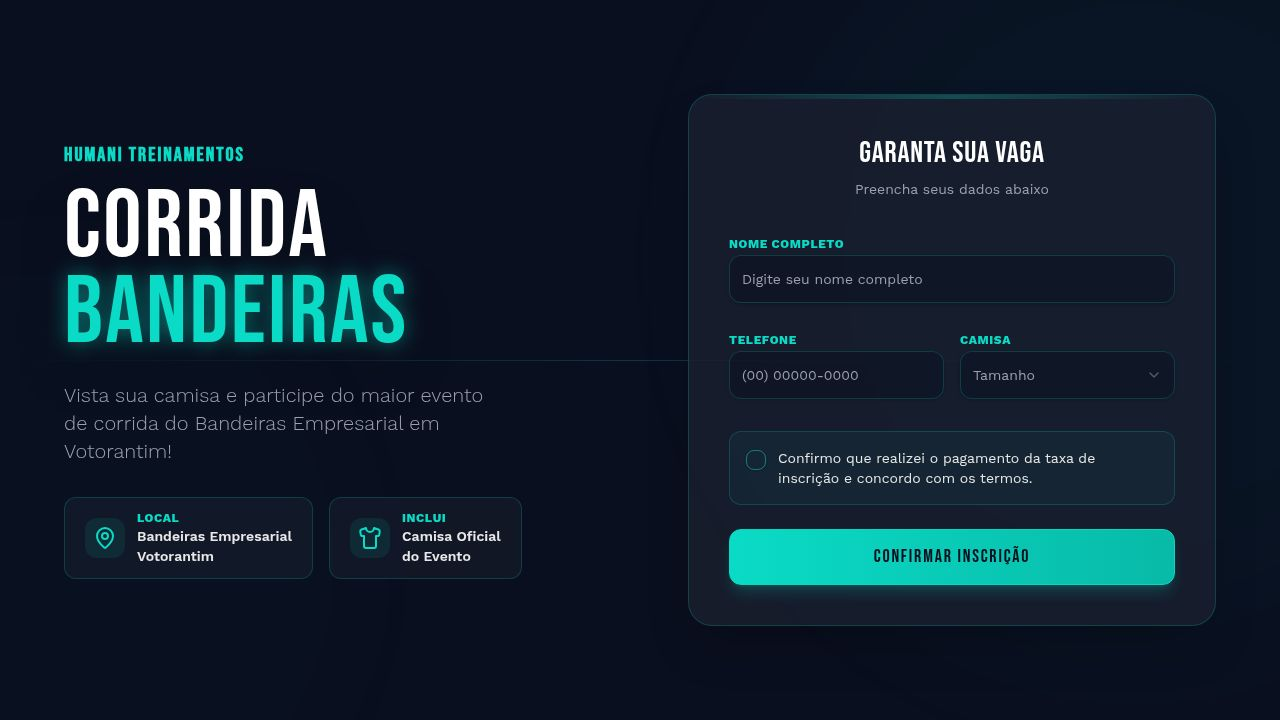
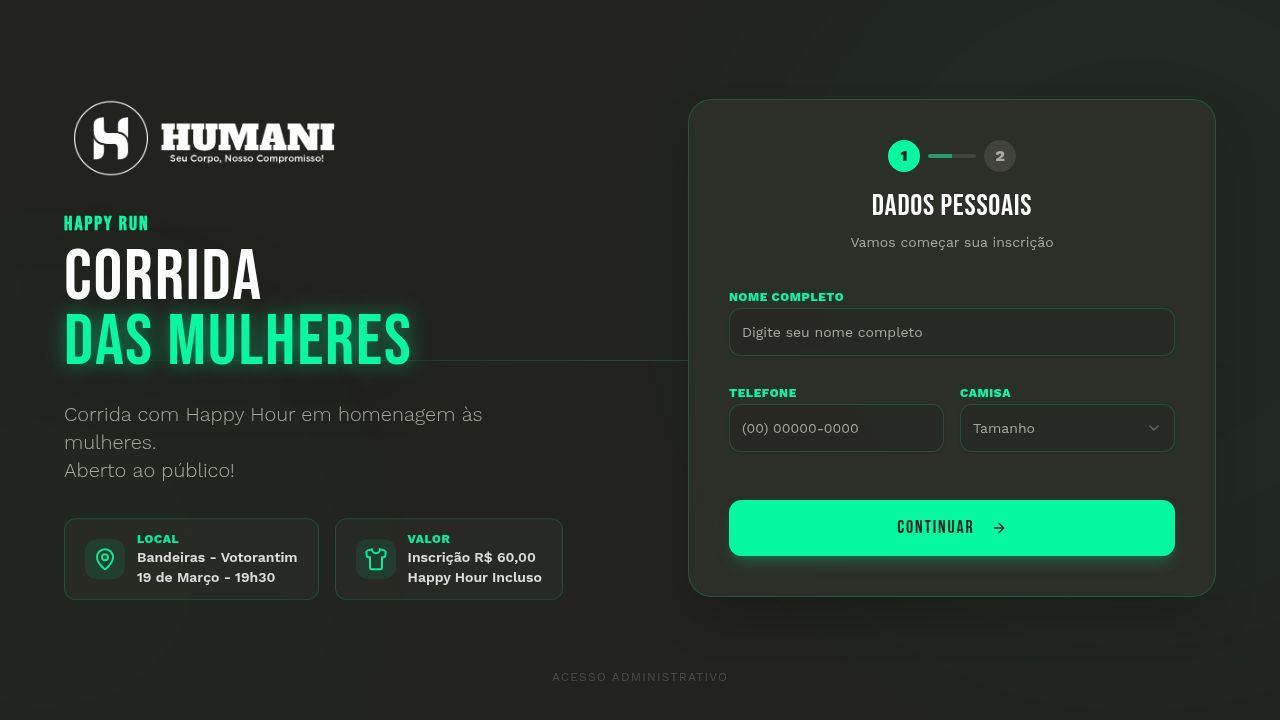
Update website appearance to reflect the Happy Run event details
Update CSS variables for colors to use the new green and black theme. Add the Humani logo and update all text content to reflect the "Happy Run - Corrida das Mulheres" event details, including date, time, location, and registration fee.

Replit-Commit-Author: Agent
Replit-Commit-Session-Id: f5c3b121-7e96-48eb-a121-7d40bcbcc625
Replit-Commit-Checkpoint-Type: full_checkpoint
Replit-Commit-Event-Id: dd569dd7-e639-47f8-9ab2-aa2f4476cf1a
Replit-Commit-Screenshot-Url: https://storage.googleapis.com/screenshot-production-us-central1/7a94c101-2bef-4878-9af8-68530891fdb9/f5c3b121-7e96-48eb-a121-7d40bcbcc625/aas8XIX
Replit-Helium-Checkpoint-Created: true

diff --git a/client/src/index.css b/client/src/index.css
@@ -47,33 +47,33 @@
 
 :root {
   /* Dark Mode Default for this project based on briefing */
-  --background: 225 50% 8%; /* #0a0f1e */
+  --background: 75 6% 13%; /* #22231f - New Black/Dark Grey */
   --foreground: 0 0% 91%;   /* #e8e8e8 */
 
-  --card: 225 28% 14%;      /* #1a1f2e */
+  --card: 75 6% 18%;      /* Slightly lighter than background */
   --card-foreground: 0 0% 91%;
 
-  --popover: 225 28% 14%;
+  --popover: 75 6% 18%;
   --popover-foreground: 0 0% 91%;
 
-  --primary: 174 91% 45%;   /* #0ADDC8 */
-  --primary-foreground: 225 50% 8%;
+  --primary: 158 95% 50%;   /* #06f9a2 - New Green */
+  --primary-foreground: 75 6% 13%;
 
-  --secondary: 174 92% 38%; /* #08b9a7 */
-  --secondary-foreground: 225 50% 8%;
+  --secondary: 158 95% 40%; /* Darker Green */
+  --secondary-foreground: 75 6% 13%;
 
-  --muted: 225 20% 25%;
-  --muted-foreground: 225 10% 65%;
+  --muted: 75 6% 25%;
+  --muted-foreground: 75 5% 65%;
 
-  --accent: 174 91% 45%;
-  --accent-foreground: 225 50% 8%;
+  --accent: 158 95% 50%;
+  --accent-foreground: 75 6% 13%;
 
   --destructive: 0 84% 60%;
   --destructive-foreground: 0 0% 100%;
 
-  --border: 174 91% 45%; /* Using primary color for borders as per design style */
-  --input: 225 28% 20%;
-  --ring: 174 91% 45%;
+  --border: 158 95% 50%; /* Using primary color for borders as per design style */
+  --input: 75 6% 20%;
+  --ring: 158 95% 50%;
 
   --radius: 0.75rem;
 }
@@ -95,9 +95,9 @@
 }
 
 .glow-text {
-  text-shadow: 0 0 20px rgba(10, 221, 200, 0.5);
+  text-shadow: 0 0 20px rgba(6, 249, 162, 0.5);
 }
 
 .glow-box {
-  box-shadow: 0 0 20px rgba(10, 221, 200, 0.15);
+  box-shadow: 0 0 20px rgba(6, 249, 162, 0.15);
 }

diff --git a/client/src/pages/landing.tsx b/client/src/pages/landing.tsx
@@ -46,6 +46,8 @@ const paymentSchema = z.object({
 type PersonalData = z.infer<typeof personalDataSchema>;
 type PaymentData = z.infer<typeof paymentSchema>;
 
+import logoHumani from '@assets/Logo_Humani_Branco_1770990681867.png';
+
 export default function LandingPage() {
   const { addInscription, config } = useInscriptionStore();
   const { toast } = useToast();
@@ -152,15 +154,19 @@ export default function LandingPage() {
             animate={{ opacity: 1, y: 0 }}
             transition={{ duration: 0.8 }}
           >
-            <h2 className="text-primary font-bold tracking-widest uppercase mb-4 text-xl">
-              Humani Treinamentos
+            <div className="mb-8 flex justify-center lg:justify-start">
+              <img src={logoHumani} alt="Humani Treinamentos" className="h-16 md:h-20 object-contain" />
+            </div>
+            <h2 className="text-primary font-bold tracking-widest uppercase mb-2 text-xl">
+              Happy Run
             </h2>
-            <h1 className="text-6xl lg:text-8xl font-display leading-[0.9] mb-6 text-white drop-shadow-2xl">
+            <h1 className="text-5xl lg:text-7xl font-display leading-[0.9] mb-6 text-white drop-shadow-2xl">
               Corrida <br />
-              <span className="text-primary glow-text">Bandeiras</span>
+              <span className="text-primary glow-text">Das Mulheres</span>
             </h1>
             <p className="text-lg lg:text-xl text-muted-foreground font-light max-w-md mx-auto lg:mx-0">
-              Vista sua camisa e participe do maior evento de corrida do Bandeiras Empresarial em Votorantim!
+              Corrida com Happy Hour em homenagem às mulheres. <br/>
+              Aberto ao público!
             </p>
           </motion.div>
 
@@ -176,7 +182,7 @@ export default function LandingPage() {
               </div>
               <div className="text-left">
                 <div className="text-xs text-primary font-bold uppercase tracking-wider">Local</div>
-                <div className="text-sm font-semibold">Bandeiras Empresarial<br/>Votorantim</div>
+                <div className="text-sm font-semibold">Bandeiras - Votorantim<br/>19 de Março - 19h30</div>
               </div>
             </div>
             
@@ -185,8 +191,8 @@ export default function LandingPage() {
                 <Shirt size={24} />
               </div>
               <div className="text-left">
-                <div className="text-xs text-primary font-bold uppercase tracking-wider">Inclui</div>
-                <div className="text-sm font-semibold">Camisa Oficial<br/>do Evento</div>
+                <div className="text-xs text-primary font-bold uppercase tracking-wider">Valor</div>
+                <div className="text-sm font-semibold">Inscrição R$ 60,00<br/>Happy Hour Incluso</div>
               </div>
             </div>
           </motion.div>
@@ -358,7 +364,7 @@ export default function LandingPage() {
                         <div className="text-center space-y-6 animate-in fade-in slide-in-from-bottom-2 duration-300 py-4">
                            <div className="space-y-2">
                              <p className="text-sm text-muted-foreground uppercase tracking-widest font-bold">Valor da Inscrição</p>
-                             <div className="text-5xl font-display text-white">R$ 5,00</div>
+                             <div className="text-5xl font-display text-white">R$ 60,00</div>
                            </div>
                            
                            <div className="bg-primary/5 p-6 rounded-2xl border border-primary/20 space-y-4">